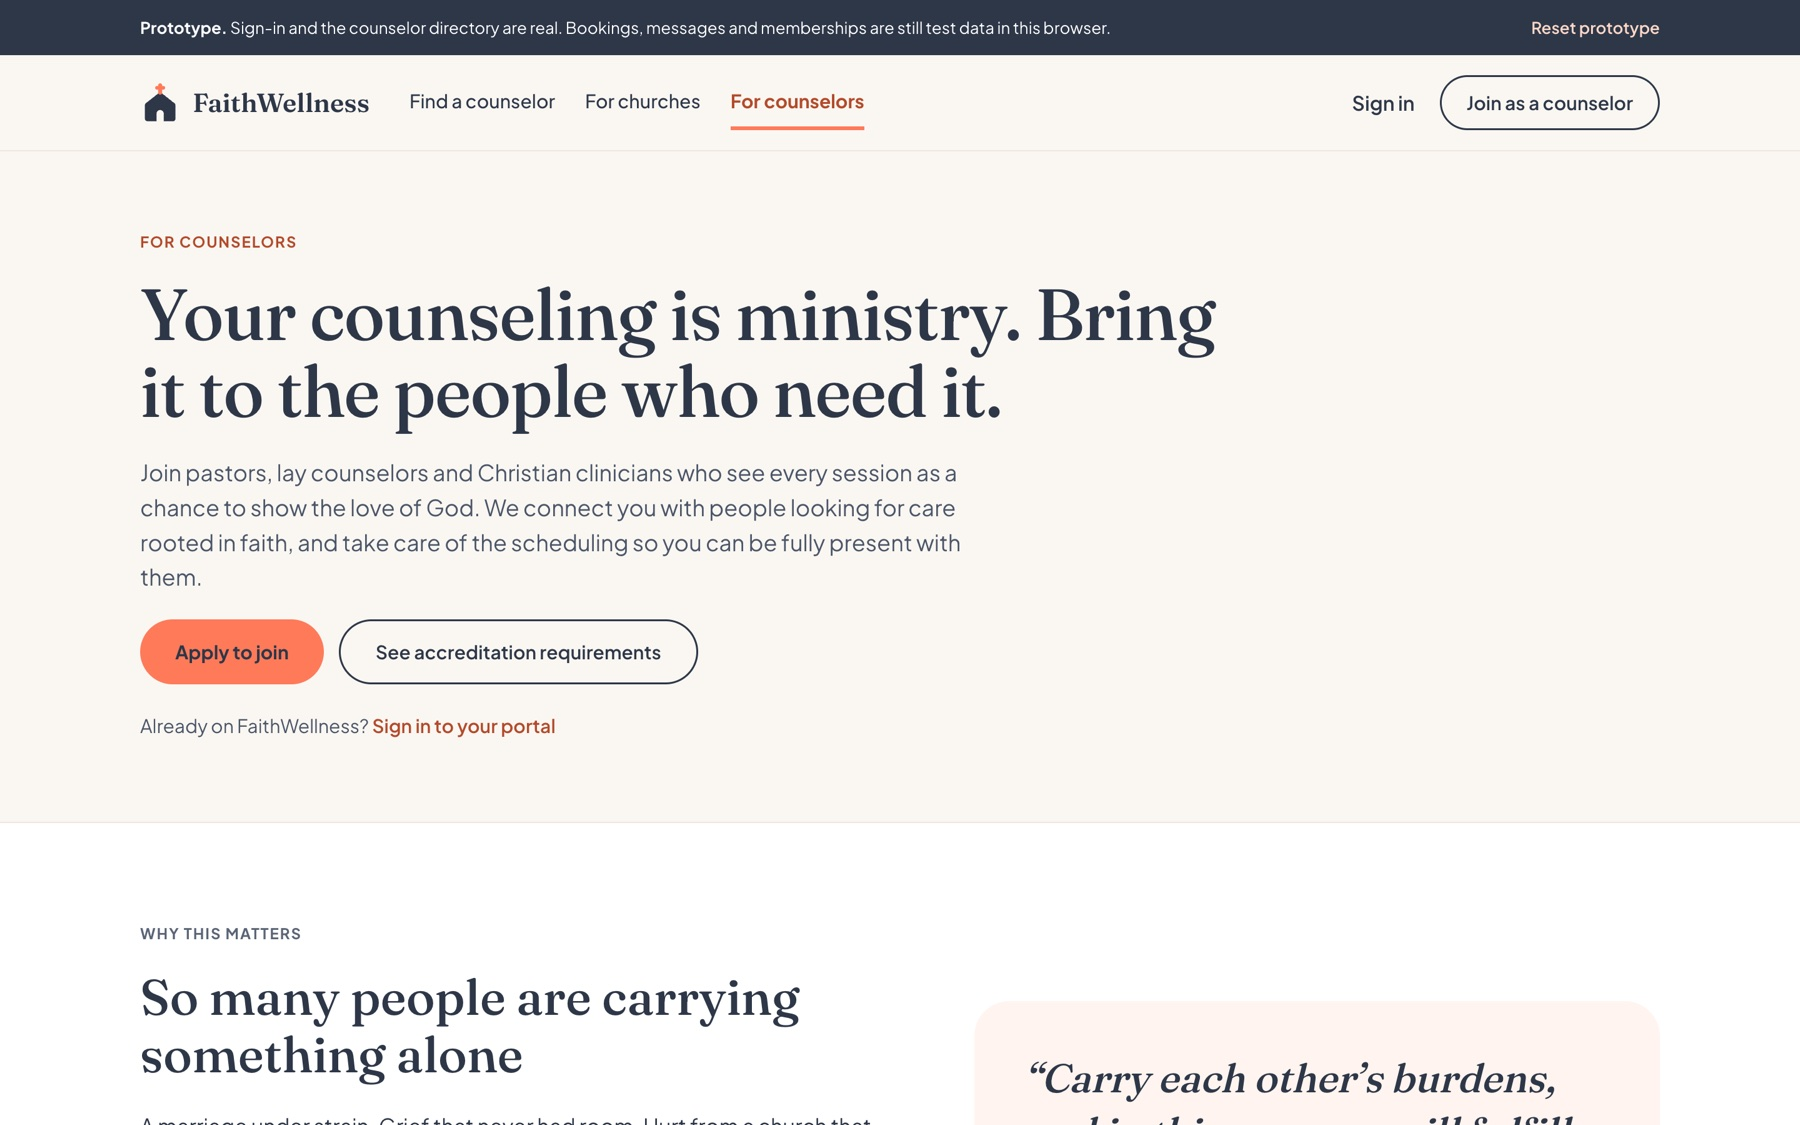
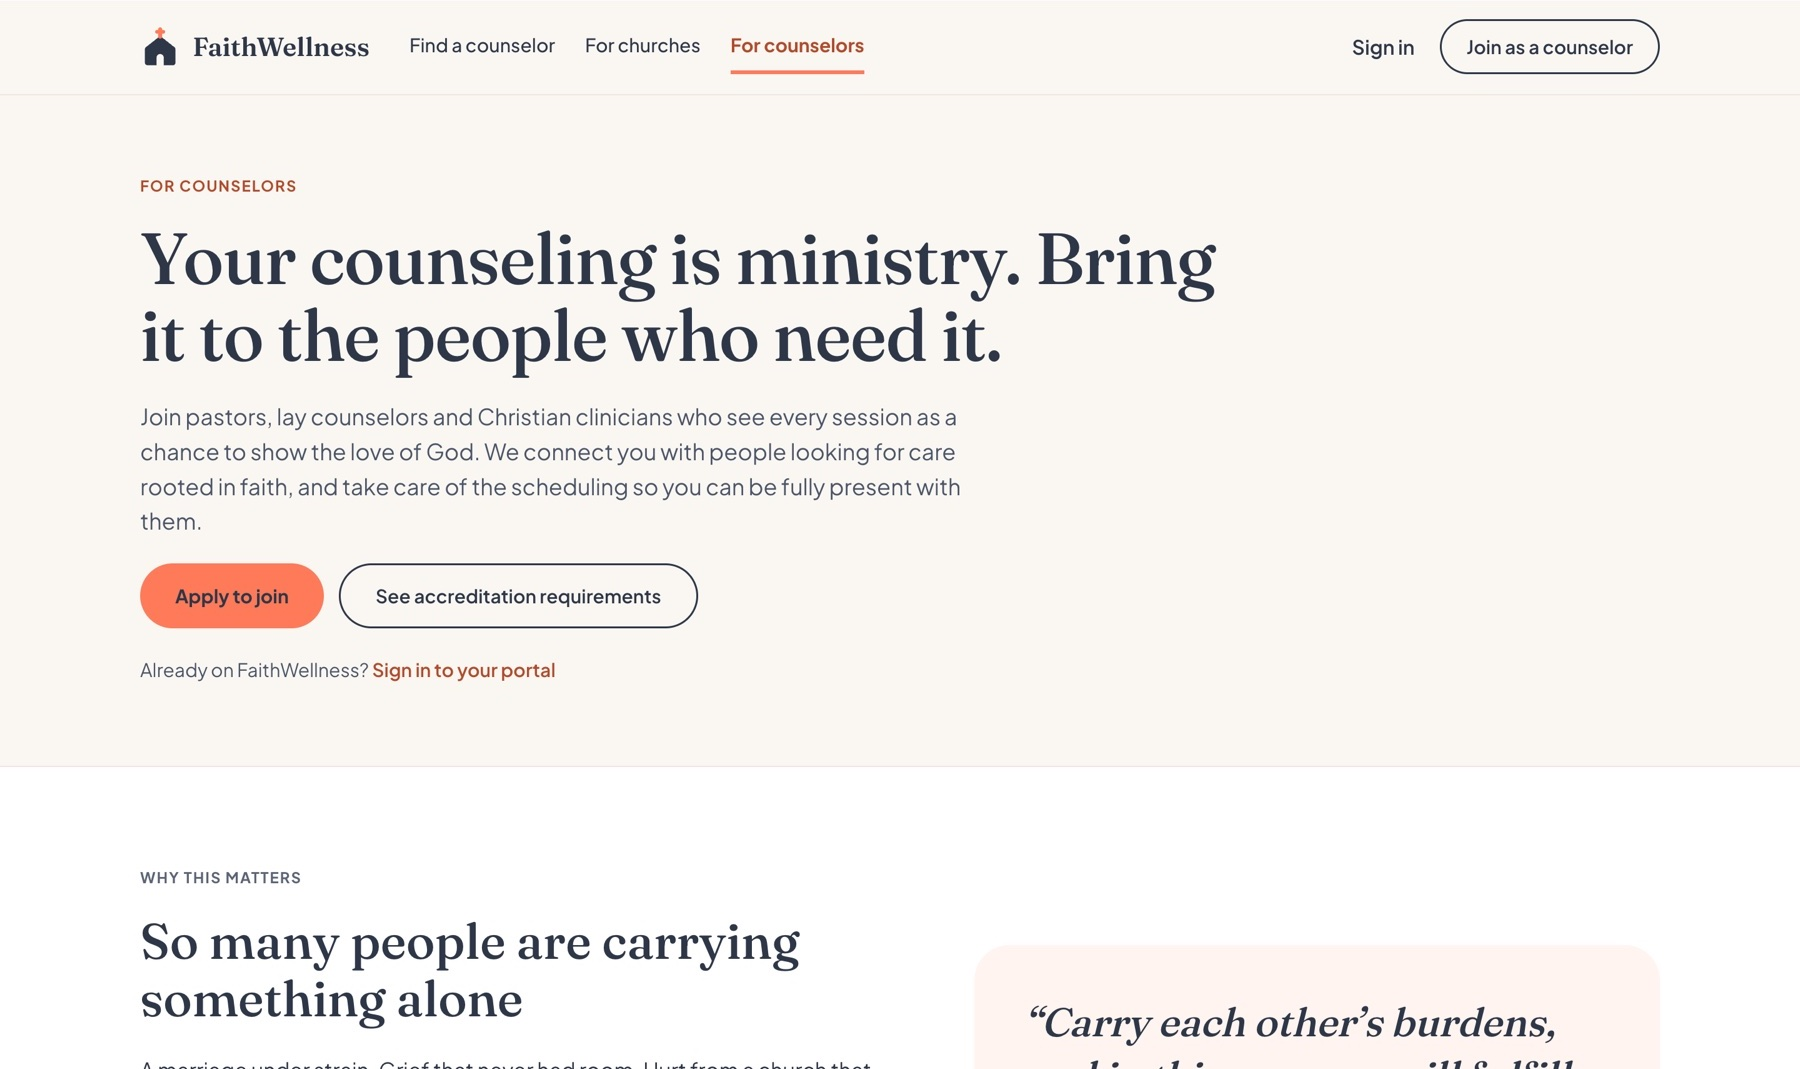
Update FaithWellness

diff --git a/case-faithwellness.html b/case-faithwellness.html
@@ -4,7 +4,7 @@
 <meta charset="utf-8">
 <meta name="viewport" content="width=device-width, initial-scale=1, viewport-fit=cover">
 <title>FaithWellness · Emi Kobayashi</title>
-<meta name="description" content="How Emi Kobayashi shaped, designed and built FaithWellness, a prototype that connects people with Christian counselors accredited by their churches.">
+<meta name="description" content="How Emi Kobayashi shaped, designed and built FaithWellness, a web app that connects people with Christian counselors accredited by their churches.">
 <link rel="icon" href="2025-12-EK-Logo-scaled.png">
 <link rel="preconnect" href="https://fonts.googleapis.com">
 <link rel="preconnect" href="https://fonts.gstatic.com" crossorigin>
@@ -43,15 +43,15 @@
 <main id="top">
 
   <section class="c-hero" data-blob-at="2" data-blob-side="left">
-    <div class="c-hero__media"><div data-sc-tilt="4"><figure class="shot"><img src="img/fw-hero.jpg" width="1800" height="1125" alt="FaithWellness home page: Find a counselor who understands your faith, with a search bar and counselor cards" fetchpriority="high"></figure></div></div>
+    <div class="c-hero__media"><div data-sc-tilt="4"><figure class="shot" style="aspect-ratio: 1800 / 1069"><img src="img/fw-hero.jpg" width="1800" height="1069" alt="FaithWellness home page: Find a counselor who understands your faith, with a search bar and counselor cards" fetchpriority="high"></figure></div></div>
     <div class="c-hero__copy">
       <p class="lbl__kind">Case study · Product design · Brand · Front end</p>
       <h1>FaithWellness</h1>
-      <p class="c-deck">A prototype that connects people with pastoral and Christian counselors, each one accredited by a church they can trust.</p>
+      <p class="c-deck">A fully deployed web app that connects people with pastoral and Christian counselors, each one accredited by a church they can trust.</p>
       <dl class="c-meta">
         <div><dt>Role</dt><dd>Product strategy, UX and UI, brand, front end</dd></div>
         <div><dt>Client</dt><dd>FaithWellness</dd></div>
-        <div><dt>Stage</dt><dd>Working prototype, responsive web</dd></div>
+        <div><dt>Stage</dt><dd>Live, fully deployed web app</dd></div>
         <div><dt>Live site</dt><dd><a class="link" href="https://www.faithwellnesscounseling.com/" target="_blank" rel="noopener">Visit the live site ↗</a></dd></div>
       </dl>
     </div>
@@ -60,9 +60,9 @@
   <section class="c-ch c-ch--text" id="outcome" data-title="Outcome" data-blob-at="5" data-blob-side="corner">
     <div class="c-copy" data-sc-in data-sc-stagger="60">
       <p class="c-num">Section 1</p>
-      <h2>A working prototype, ready to test</h2>
+      <h2>From idea to a live web app</h2>
       <div class="c-cols">
-        <p class="lead">I shaped FaithWellness from an idea into a prototype people can actually use: real sign-in and a real counselor directory, with bookings, messages and memberships simulated for testing.</p>
+        <p class="lead">I took FaithWellness from an idea to a fully deployed web app: real accounts, a live counselor directory, booking, messaging and church memberships.</p>
         <ul class="c-points">
           <li>One marketplace serving three audiences: people seeking care, counselors and churches</li>
           <li>A brand that feels warm and trustworthy, not clinical</li>
@@ -74,7 +74,7 @@
   </section>
 
   <section class="c-ch c-ch--flip" id="problem" data-title="The need" data-blob-at="0" data-blob-side="right" data-sc-act="flow">
-    <figure class="c-media"><div class="shot" data-sc-parallax="-0.8"><img src="img/fw-counselors.jpg" width="1800" height="1125" alt="For counselors page: Your counseling is ministry. Bring it to the people who need it." loading="lazy"></div></figure>
+    <figure class="c-media"><div class="shot" data-sc-parallax="-0.8"><img src="img/fw-counselors.jpg" width="1800" height="1069" alt="For counselors page: Your counseling is ministry. Bring it to the people who need it." loading="lazy"></div></figure>
     <div class="c-copy" data-sc-in data-sc-stagger="60">
       <p class="c-num">Section 2</p>
       <h2>So many people carry something alone</h2>
@@ -100,8 +100,8 @@
 
   <section class="c-ch c-ch--flip" id="matcher" data-title="Five questions" data-blob-at="2" data-blob-side="right" data-sc-act="flow">
     <figure class="c-media c-media--pair">
-      <div class="shot" data-sc-parallax="-0.6"><img src="img/fw-quiz.jpg" width="1800" height="1125" alt="Question 1 of 5: Who is the counseling for?" loading="lazy"></div>
-      <div class="shot" data-sc-parallax="-1.4"><img src="img/fw-phone-quiz.jpg" width="750" height="1624" alt="The five-question matcher on a phone" loading="lazy"></div>
+      <div class="shot" data-sc-parallax="-0.6"><img src="img/fw-quiz.jpg" width="1800" height="1069" alt="Question 1 of 5: Who is the counseling for?" loading="lazy"></div>
+      <div class="shot" data-sc-parallax="-1.4"><img src="img/fw-phone-quiz.jpg" width="750" height="1408" alt="The five-question matcher on a phone" loading="lazy"></div>
     </figure>
     <div class="c-copy" data-sc-in data-sc-stagger="60">
       <p class="c-num">Section 4</p>
@@ -113,8 +113,8 @@
 
   <section class="c-ch" id="profile" data-title="Counselor profiles" data-blob-at="3" data-blob-side="left" data-sc-act="flow">
     <figure class="c-media c-media--pair">
-      <div class="shot" data-sc-parallax="-0.6"><img src="img/fw-profile.jpg" width="1800" height="1125" alt="A counselor profile with credentials, years in ministry, languages and a booking panel" loading="lazy"></div>
-      <div class="shot" data-sc-parallax="-1.4"><img src="img/fw-phone-profile.jpg" width="750" height="1624" alt="The same profile on a phone with a sticky Book a session button" loading="lazy"></div>
+      <div class="shot" data-sc-parallax="-0.6"><img src="img/fw-profile.jpg" width="1800" height="1069" alt="A counselor profile with credentials, years in ministry, languages and a booking panel" loading="lazy"></div>
+      <div class="shot" data-sc-parallax="-1.4"><img src="img/fw-phone-profile.jpg" width="750" height="1408" alt="The same profile on a phone with a sticky Book a session button" loading="lazy"></div>
     </figure>
     <div class="c-copy" data-sc-in data-sc-stagger="60">
       <p class="c-num">Section 5</p>
@@ -129,7 +129,7 @@
   </section>
 
   <section class="c-ch c-ch--flip" id="accreditation" data-title="Accreditation" data-blob-at="4" data-blob-side="right" data-sc-act="flow">
-    <figure class="c-media"><div class="shot" data-sc-parallax="-0.8"><img src="img/fw-accreditation.jpg" width="1800" height="1125" alt="Accreditation page: Accredited by the churches who know them, with three steps" loading="lazy"></div></figure>
+    <figure class="c-media"><div class="shot" data-sc-parallax="-0.8"><img src="img/fw-accreditation.jpg" width="1800" height="1069" alt="Accreditation page: Accredited by the churches who know them, with three steps" loading="lazy"></div></figure>
     <div class="c-copy" data-sc-in data-sc-stagger="60">
       <p class="c-num">Section 6</p>
       <h2>Accredited by the churches who know them</h2>
@@ -143,7 +143,7 @@
   </section>
 
   <section class="c-ch" id="churches" data-title="For churches" data-blob-at="5" data-blob-side="left" data-sc-act="flow">
-    <figure class="c-media"><div class="shot" data-sc-parallax="-0.8"><img src="img/fw-churches.jpg" width="1800" height="1125" alt="For churches page: Care for your people beyond Sunday morning" loading="lazy"></div></figure>
+    <figure class="c-media"><div class="shot" data-sc-parallax="-0.8"><img src="img/fw-churches.jpg" width="1800" height="1069" alt="For churches page: Care for your people beyond Sunday morning" loading="lazy"></div></figure>
     <div class="c-copy" data-sc-in data-sc-stagger="60">
       <p class="c-num">Section 7</p>
       <h2>Three audiences, one network</h2>
@@ -157,7 +157,7 @@
   </section>
 
   <section class="c-ch c-ch--flip" id="phone" data-title="Care and safety" data-blob-at="0" data-blob-side="right" data-sc-act="flow">
-    <figure class="c-media"><div class="shot" data-sc-parallax="-0.8"><img src="img/fw-phone-home.jpg" width="750" height="1624" alt="FaithWellness home page on a phone" loading="lazy"></div></figure>
+    <figure class="c-media"><div class="shot" data-sc-parallax="-0.8"><img src="img/fw-phone-home.jpg" width="750" height="1408" alt="FaithWellness home page on a phone" loading="lazy"></div></figure>
     <div class="c-copy" data-sc-in data-sc-stagger="60">
       <p class="c-num">Section 8</p>
       <h2>Gentle by design, safe by default</h2>

diff --git a/index.html b/index.html
@@ -272,15 +272,15 @@
   </section>
 
   <section class="proj" id="faithwellness" data-blob-at="5" data-blob-side="left" data-nav-for="work" data-sc-act="flow" aria-labelledby="fw-t">
-    <div class="proj__media"><div class="proj__frame proj__frame--site" data-sc-tilt="8"><figure class="shot" data-sc-parallax="-0.9"><img src="img/fw-hero.jpg" alt="FaithWellness home page: Find a counselor who understands your faith"></figure></div></div>
+    <div class="proj__media"><div class="proj__frame proj__frame--site" style="aspect-ratio: 1800 / 1069" data-sc-tilt="8"><figure class="shot" data-sc-parallax="-0.9"><img src="img/fw-hero.jpg" alt="FaithWellness home page: Find a counselor who understands your faith"></figure></div></div>
     <div class="proj__copy" data-sc-in data-sc-stagger="60">
       <p class="lbl__kind">Product design · Brand · Front end</p>
       <h2 class="proj__title" id="fw-t">FaithWellness</h2>
-      <p class="proj__text">A working prototype that connects people with Christian counselors, each accredited by a church they trust.</p>
+      <p class="proj__text">A fully deployed web app that connects people with Christian counselors, each accredited by a church they trust.</p>
       <ul class="proj__points">
         <li>One marketplace for <b>3</b> audiences: seekers, counselors, churches</li>
         <li>A <b>5</b>-question matcher for anyone unsure where to start</li>
-        <li>Real sign-in and counselor directory, <b>live on the web</b></li>
+        <li>Accounts, booking and messaging, <b>live on the web</b></li>
       </ul>
       <div class="proj__go"><a class="btn" href="case-faithwellness.html">See case study</a><a class="link" href="https://www.faithwellnesscounseling.com/" target="_blank" rel="noopener">Visit the live site ↗</a></div>
     </div>

diff --git a/case-jishiwa.html b/case-jishiwa.html
@@ -43,7 +43,7 @@
 <main id="top">
 
   <section class="c-hero" data-blob-at="1" data-blob-side="left">
-    <div class="c-hero__media"><div data-sc-tilt="4"><figure class="shot"><img src="img/jishiwa-hero.jpg" width="1800" height="1125" alt="Jishiwa home page: a glowing globe behind the headline Reliable hosting, email and affordable domains" fetchpriority="high"></figure></div></div>
+    <div class="c-hero__media"><div data-sc-tilt="4"><figure class="shot" style="aspect-ratio: 16 / 10"><img src="img/jishiwa-hero.jpg" width="1800" height="1125" alt="Jishiwa home page: a glowing globe behind the headline Reliable hosting, email and affordable domains" fetchpriority="high"></figure></div></div>
     <div class="c-hero__copy">
       <p class="lbl__kind">Case study · Product design · Brand · Front end</p>
       <h1>Jishiwa</h1>
